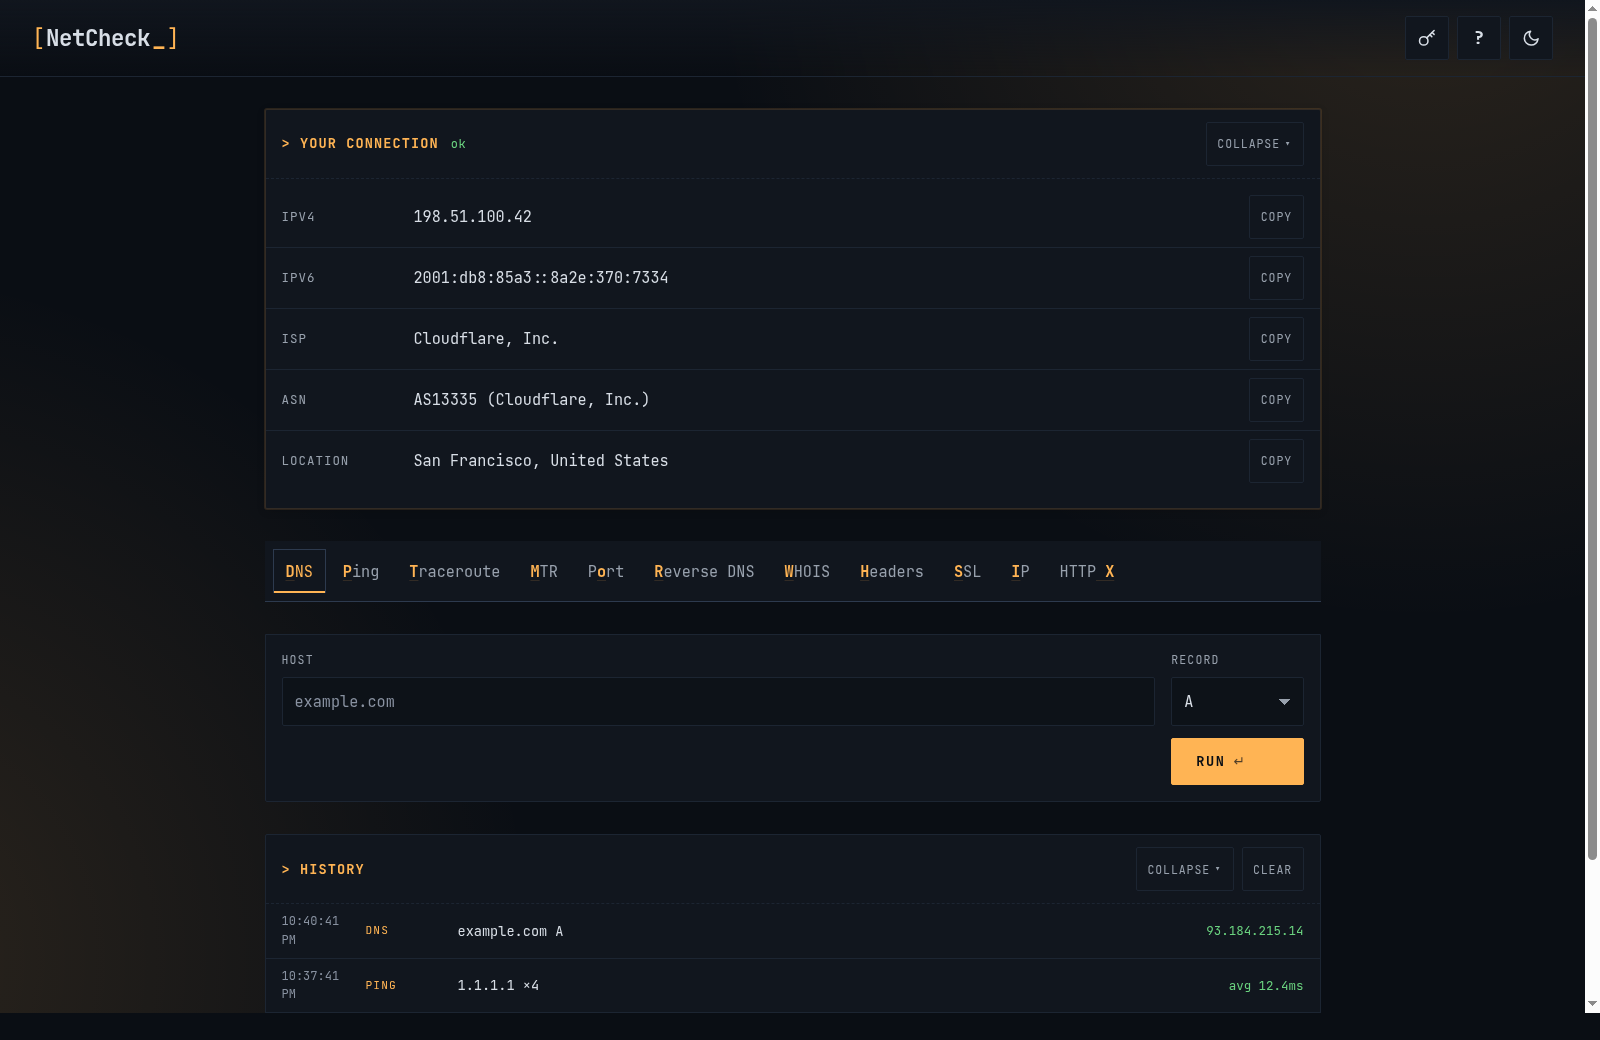
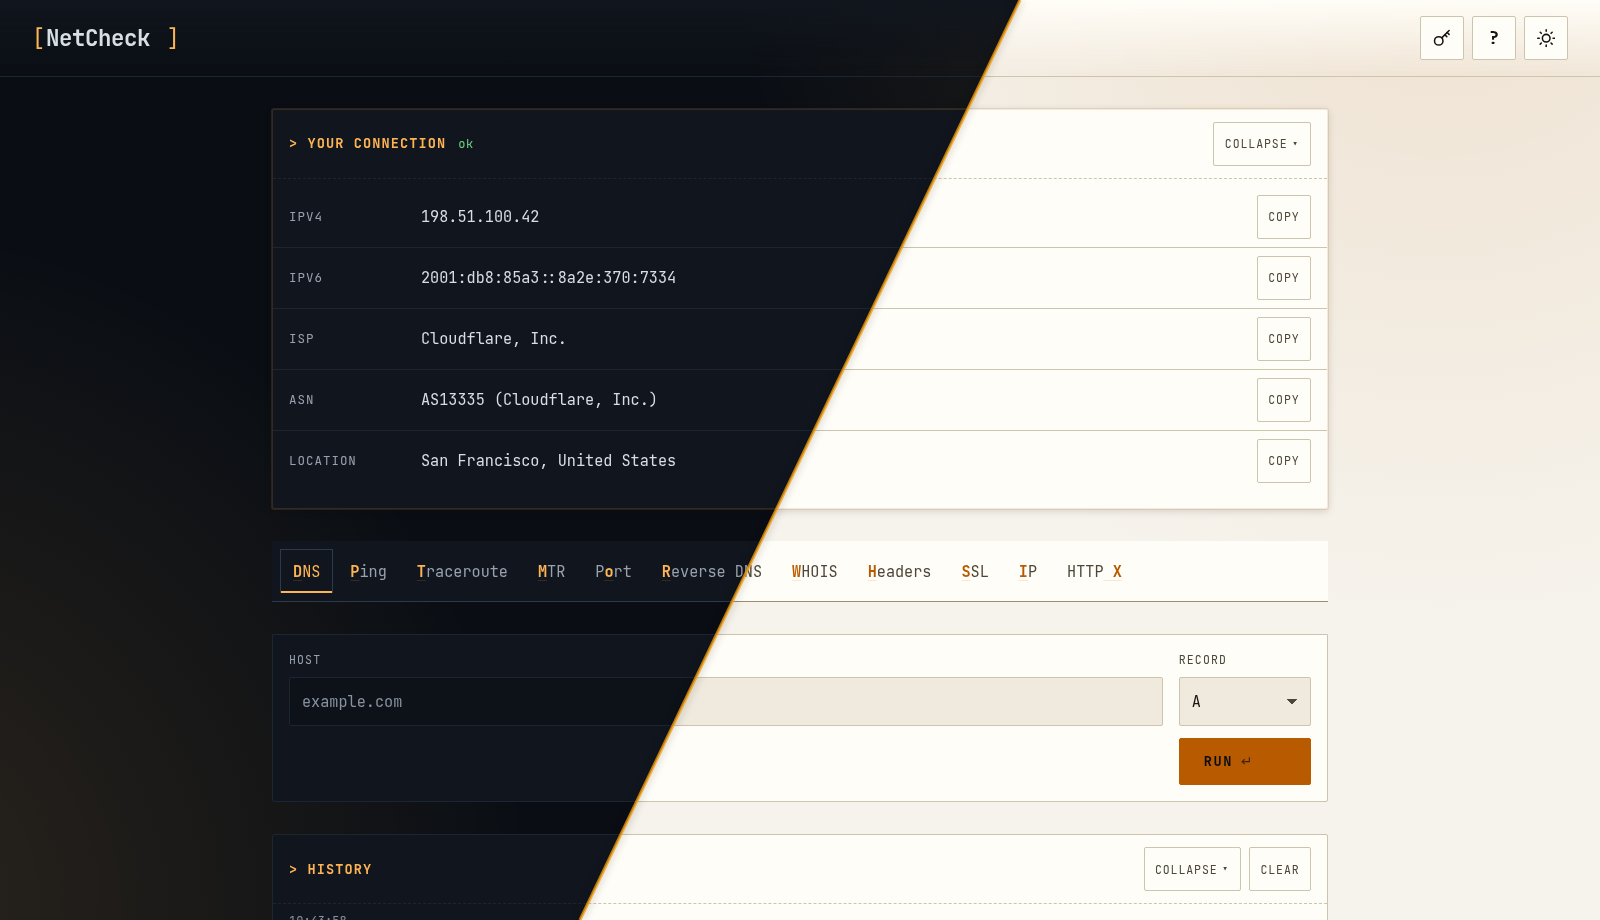
fix(security): prevent exception exposure & add split dark/light preview

diff --git a/backend/routers/dns.py b/backend/routers/dns.py
@@ -1,5 +1,6 @@
 """POST /api/dns — DNS records via dnspython."""
 import asyncio
+import logging
 import dns.exception
 import dns.resolver
 from fastapi import APIRouter, Depends, HTTPException, Request
@@ -8,6 +9,7 @@ from pydantic import BaseModel, Field
 from backend.utils.rate_limit import RATE_LIMIT, limiter
 from backend.utils.validators import is_valid_hostname, require_auth
 
+log = logging.getLogger(__name__)
 router = APIRouter()
 _ALLOWED_TYPES = {"A", "AAAA", "MX", "TXT", "CNAME", "NS", "SOA", "CAA", "SRV", "PTR"}
 _DNS_TIMEOUT = 5.0
@@ -53,7 +55,8 @@ async def dns_lookup(request: Request, body: DnsRequest):
     except dns.exception.Timeout:
         raise HTTPException(504, {"error": "timeout", "message": "DNS resolver timed out"})
     except dns.exception.DNSException as e:
-        raise HTTPException(500, {"error": "dns_error", "message": str(e)})
+        log.warning("DNS resolution failed for %s (%s): %s", host, rtype, e)
+        raise HTTPException(500, {"error": "dns_error", "message": "DNS resolution failed"})
 
     records = [_format_record(r, rtype) for r in answer]
     ttl = answer.rrset.ttl if answer.rrset is not None else 0

diff --git a/backend/routers/http_check.py b/backend/routers/http_check.py
@@ -6,6 +6,7 @@ redirects (Location header for 3xx), key headers, and TLS validity.
 
 Origin-leak-free: the request originates from the probe, not our server.
 """
+import logging
 import time
 from typing import Any
 from urllib.parse import urlparse
@@ -24,6 +25,7 @@ from backend.utils.validators import (
     require_auth,
 )
 
+log = logging.getLogger(__name__)
 router = APIRouter()
 
 _INTERESTING_HEADERS = {
@@ -139,11 +141,12 @@ async def http_check(request: Request, body: HttpRequest):
                 "tls": tls_payload,
             }
         except Exception as e:
+            log.warning("Local HTTP check failed for %s: %s", host, e)
             elapsed_ms = int((time.perf_counter() - start_t) * 1000)
             return {
                 "url": url,
                 "status_code": None,
-                "status_text": str(e),
+                "status_text": "Connection failed",
                 "response_time_ms": elapsed_ms,
                 "redirects": [],
                 "headers": {},
